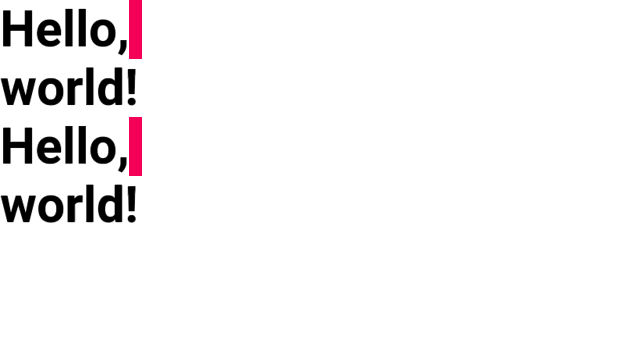
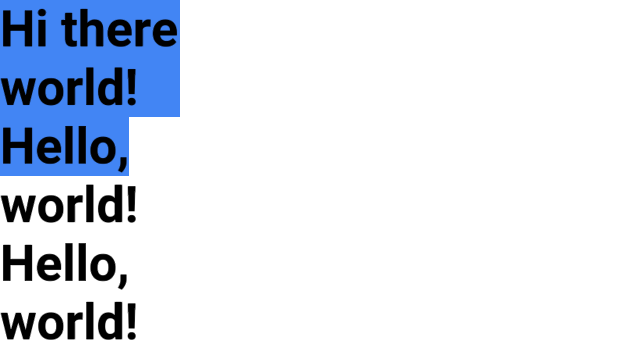
Make white-space preceding br element collapsible
Previously, white-space preceding a br element was not collapsible.
However, this causes some bugs in the code, makes things inconsistent,
and doesn't match the functionality of the majority of browsers. This
has been changed so that white-space preceding br elements are always
collapsible. Cobalt now is the same as Firefox in how it handles this.

This fixes an assert discovered by ClusterFuzz.

The applicable layout test has been updated.

Changed region(s): [[0.0, 0.0, 0.2812, 0.4889], [0.0, 0.825, 0.2188, 0.9472], [0.0, 0.6722, 0.2188, 0.7944]]

diff --git a/cobalt/layout_tests/testdata/css-text-3/4-1-1-space-preceding-br-element-should-not-be-collapsed.html b/cobalt/layout_tests/testdata/css-text-3/4-1-1-space-preceding-br-element-should-not-be-collapsed.html
@@ -1,9 +1,6 @@
 <!DOCTYPE html>
 <!--
- | The spec is ambiguous on how to handle whitespace preceding a <br>
- | element on a line and browsers are not consistent in their
- | handling of it. As a result, we're preventing whitespace collapsing
- | preceding <br> elements to match Chrome's functionality.
+ | Whitespace preceding a <br> element should be collapsed.
  |   https://www.w3.org/TR/css3-text/#white-space-phase-1
  -->
 <html>
@@ -15,12 +12,20 @@
       font-size: 50px;
       font-weight: bold;
     }
+    .wrap-block {
+      width: 180px;
+    }
+    .blue-background {
+      background-color: #4285f4;
+    }
     .collapsed {
       background-color: #f50057;
     }
   </style>
 </head>
 <body>
+  <div class="wrap-block blue-background">Hi there <br>world!</div>
+  <div><span class="blue-background">Hello, <br></span>world!</div>
   <div>Hello,<span class="collapsed"> <br></span>world!</div>
   <div>Hello,<span class="collapsed"> </span><br>world!</div>
 </body>

diff --git a/cobalt/layout/text_box.cc b/cobalt/layout/text_box.cc
@@ -265,7 +265,7 @@ void TextBox::SetShouldCollapseTrailingWhiteSpace(
 
 bool TextBox::IsCollapsed() const {
   return !HasLeadingWhiteSpace() && !HasTrailingWhiteSpace() &&
-         !HasNonCollapsibleText() && !has_trailing_line_break_;
+         !HasNonCollapsibleText();
 }
 
 bool TextBox::HasLeadingWhiteSpace() const {
